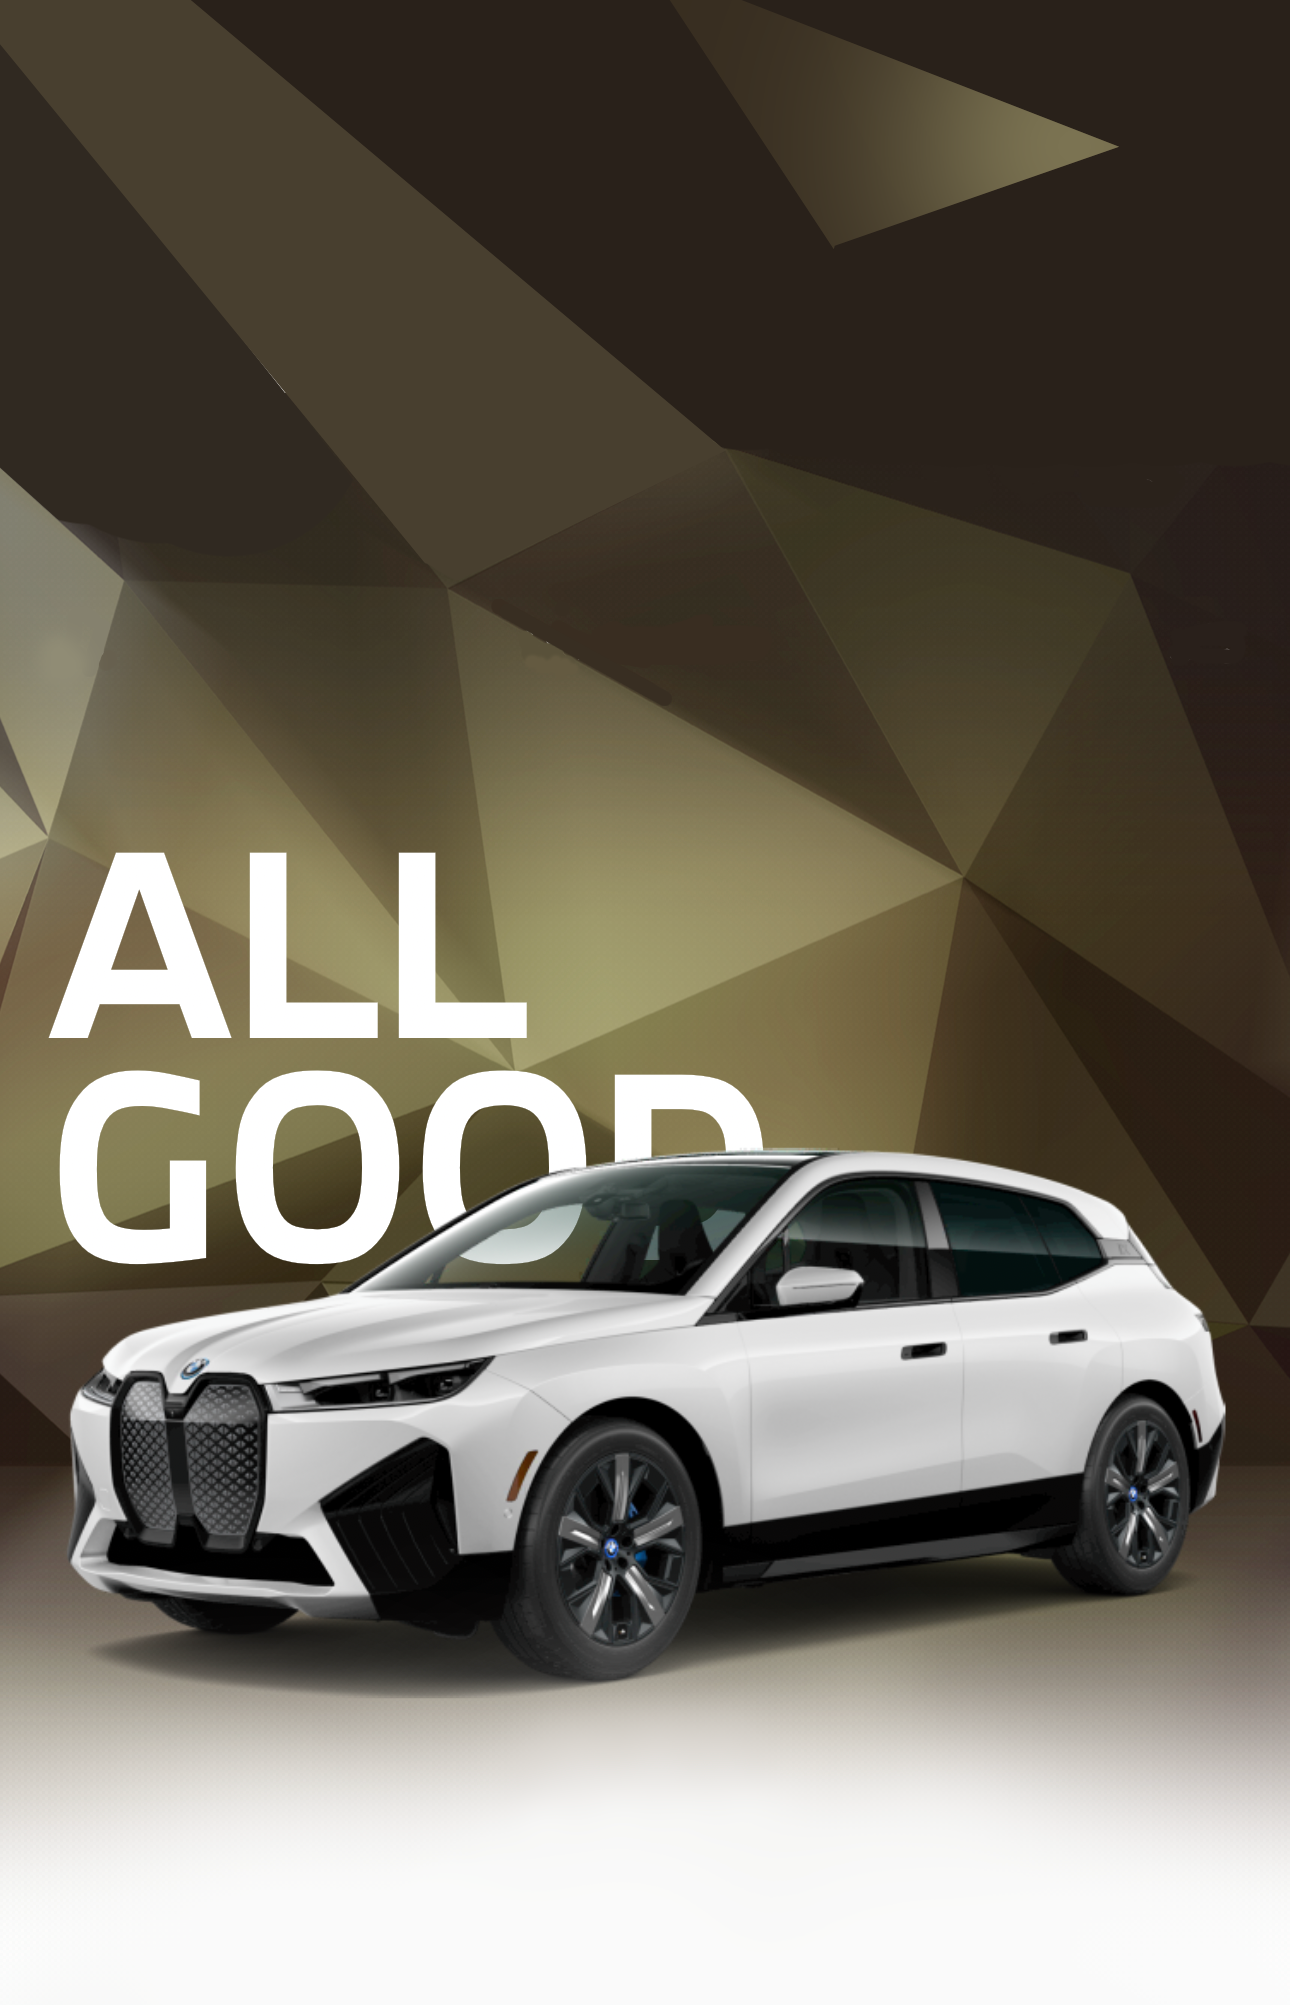
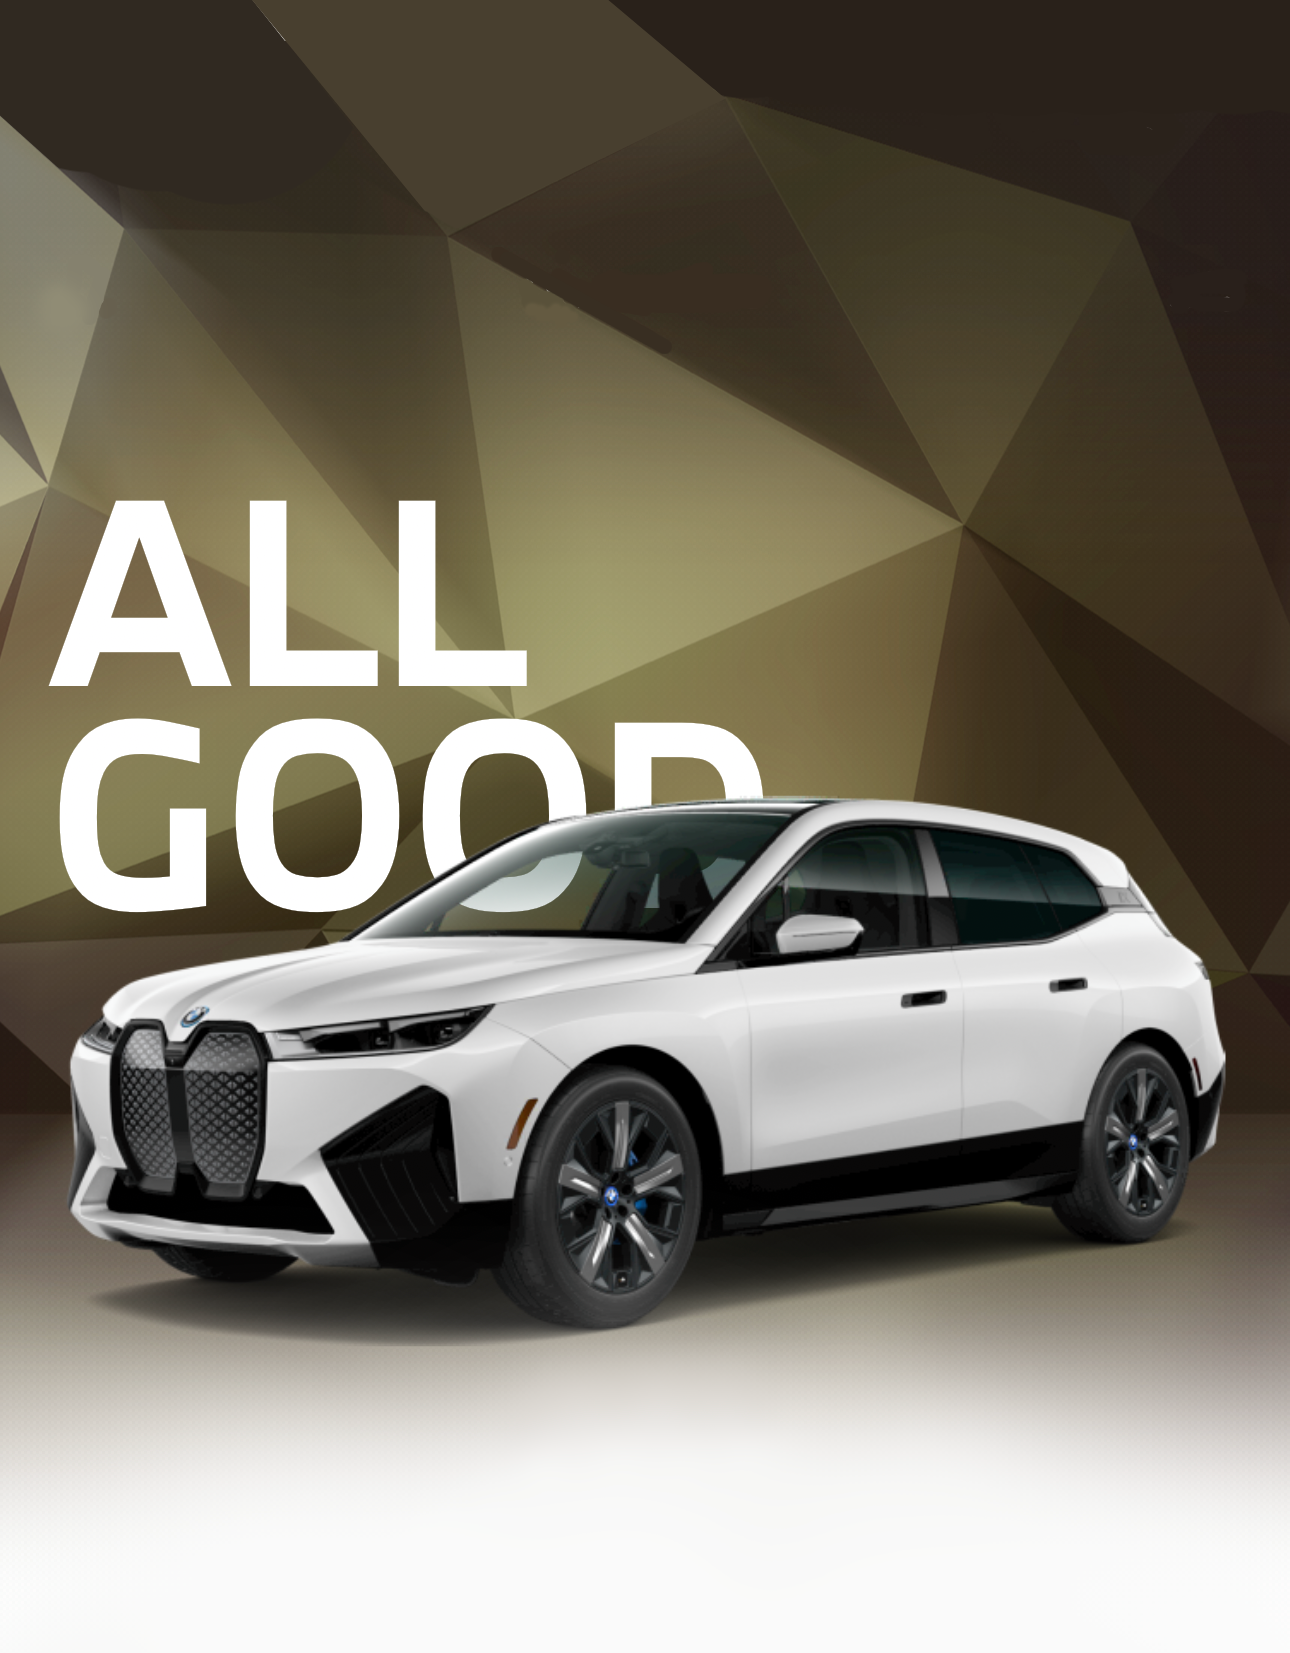
Edit Ui with Card

diff --git a/lib/presentation/screens/home_screen.dart b/lib/presentation/screens/home_screen.dart
@@ -13,6 +13,8 @@ class _HomeScreenState extends State<HomeScreen> {
   final ScrollController _scrollController = ScrollController();
   double _opacity = 0.0;
   double _sliderValue = 60.0;
+  int _selectedIndex = 0;
+
   @override
   void initState() {
     super.initState();
@@ -21,6 +23,13 @@ class _HomeScreenState extends State<HomeScreen> {
       setState(() {
         _opacity = (scrollOffset / 2).clamp(0.0, 0.5);
       });
+    });
+  }
+
+  // Function to handle BottomNavigationBar taps
+  void _onItemTapped(int index) {
+    setState(() {
+      _selectedIndex = index;
     });
   }
 
@@ -33,11 +42,11 @@ class _HomeScreenState extends State<HomeScreen> {
   @override
   Widget build(BuildContext context) {
     return Scaffold(
+      backgroundColor:const Color(0xFF302921),
       body: Stack(
         children: [
           Stack(
             children: [
-
               SingleChildScrollView(
                 controller: _scrollController,
                 child: Column(
@@ -46,9 +55,8 @@ class _HomeScreenState extends State<HomeScreen> {
                       children: [
                         Image.asset('assets/images/background.png'),
                         Transform.translate(
-                          offset: const Offset(0, 620),
+                          offset: const Offset(0, 500),
                           child: SizedBox(
-                            //  color: Colors.yellow,
                             width: double.infinity,
                             child: Center(
                               child: Column(
@@ -68,9 +76,8 @@ class _HomeScreenState extends State<HomeScreen> {
                                   ),
                                   Text(
                                     'Updated from vehicle 9/22/2024 9:43 PM',
-                                    style:
-                                    TextStyle(color: Colors.grey.shade500),
-                                  )
+                                    style: TextStyle(color: Colors.grey.shade500),
+                                  ),
                                 ],
                               ),
                             ),
@@ -78,35 +85,35 @@ class _HomeScreenState extends State<HomeScreen> {
                         ),
                       ],
                     ),
-                    Padding(
-                      padding: const EdgeInsets.symmetric(horizontal: 16.0),
-                      child: Transform.translate(
-                        offset: const Offset(0, 30),
-                        child: Container(
-                          decoration: BoxDecoration(
-                              color: const Color(0xFFE8E8E8),
-                              borderRadius: BorderRadius.circular(8.0)),
-                          height: 80,
+                    Container(
+
+                      decoration: BoxDecoration(
+                        color: const Color(0xFFFAFAF9),
+                        //borderRadius: BorderRadius.circular(8.0),
+                      ),
+                      height: 120,
+                      child: Padding(
+                        padding: const EdgeInsets.symmetric(horizontal: 8.0,vertical: 8),
+                        child: Card(
                           child: Column(
                             mainAxisAlignment: MainAxisAlignment.center,
                             children: [
                               SliderTheme(
                                 data: SliderTheme.of(context).copyWith(
                                   thumbShape: SliderComponentShape.noThumb,
-                                  activeTrackColor: Colors
-                                      .white, // Customize active track color
+                                  activeTrackColor: Colors.white,
                                   inactiveTrackColor: Colors.grey,
-                                  // Customize inactive track color
                                 ),
                                 child: Slider(
-                                    value: _sliderValue,
-                                    min: 0.0,
-                                    max: 100,
-                                    onChanged: (newValue) {
-                                      setState(() {
-                                        _sliderValue = newValue;
-                                      });
-                                    }),
+                                  value: _sliderValue,
+                                  min: 0.0,
+                                  max: 100,
+                                  onChanged: (newValue) {
+                                    setState(() {
+                                      _sliderValue = newValue;
+                                    });
+                                  },
+                                ),
                               ),
                               Expanded(
                                 child: Row(
@@ -114,74 +121,170 @@ class _HomeScreenState extends State<HomeScreen> {
                                   children: [
                                     Row(
                                       children: [
-                                        Image.asset('assets/images/car_battery_icon.png',height: 30,width: 30,),
-                                        const SizedBox(width: 16,),
-                                        const Text('State of charge',style: TextStyle(fontSize: 12,fontWeight: FontWeight.bold),)
+                                        Image.asset(
+                                          'assets/images/car_battery_icon.png',
+                                          height: 30,
+                                          width: 30,
+                                        ),
+                                        const SizedBox(width: 16),
+                                        const Text(
+                                          'State of charge',
+                                          style: TextStyle(
+                                            fontSize: 12,
+                                            fontWeight: FontWeight.bold,
+                                          ),
+                                        ),
                                       ],
                                     ),
                                     const Row(
                                       children: [
-                                        Text('64',style: TextStyle(fontSize: 24,fontWeight: FontWeight.bold),),
-                                        Text('% /',style: TextStyle(fontSize: 16),),
-                                        Text('229',style: TextStyle(fontSize: 24,fontWeight: FontWeight.bold),),
-                                        Text('mi',style: TextStyle(fontSize: 16),),
+                                        Text(
+                                          '64',
+                                          style: TextStyle(
+                                            fontSize: 24,
+                                            fontWeight: FontWeight.bold,
+                                          ),
+                                        ),
+                                        Text('% /', style: TextStyle(fontSize: 16)),
+                                        Text(
+                                          '229',
+                                          style: TextStyle(
+                                            fontSize: 24,
+                                            fontWeight: FontWeight.bold,
+                                          ),
+                                        ),
+                                        Text('mi', style: TextStyle(fontSize: 16)),
                                       ],
                                     ),
                                   ],
                                 ),
-                              )
+                              ),
                             ],
                           ),
-
                         ),
                       ),
                     ),
-                    const SizedBox(
-                      height: 20,
-                    ),
-                    Padding(
-                      padding: const EdgeInsets.symmetric(horizontal: 16.0),
-                      child: Transform.translate(
-                        offset: const Offset(0, 50),
-                        child:  Container(
-                          decoration: BoxDecoration(
-                              color: const Color(0xFFE8E8E8),
-                              borderRadius: BorderRadius.circular(8.0)),
-                          height: 200,),
+                    Container(
+
+                      decoration: BoxDecoration(
+                        color: const Color(0xFFFAFAF9),
+                        //borderRadius: BorderRadius.circular(8.0),
+                      ),
+                      height: 120,
+                      width: double.infinity,
+                      child: Padding(
+                        padding: const EdgeInsets.symmetric(horizontal: 8.0,vertical: 8),
+                        child: Card(
+                          child: Column(
+                            mainAxisAlignment: MainAxisAlignment.center,
+                            children: [
+
+
+                            ],
+                          ),
+                        ),
                       ),
                     ),
-                    const SizedBox(
-                      height: 20,
-                    ),
-                    Padding(
-                      padding: const EdgeInsets.symmetric(horizontal: 16.0),
-                      child: Transform.translate(
-                        offset: const Offset(0, 50),
-                        child: Container(
-                          decoration: BoxDecoration(
-                              color: const Color(0xFFE8E8E8),
-                              borderRadius: BorderRadius.circular(8.0)),
-                          height: 200,),
+                    Container(
+
+                      decoration: BoxDecoration(
+                        color: const Color(0xFFFAFAF9),
+                        //borderRadius: BorderRadius.circular(8.0),
                       ),
-                    )
+                      height: 120,
+                      width: double.infinity,
+                      child: Padding(
+                        padding: const EdgeInsets.symmetric(horizontal: 8.0,vertical: 8),
+                        child: Card(
+                          child: Column(
+                            mainAxisAlignment: MainAxisAlignment.center,
+                            children: [
+
+
+                            ],
+                          ),
+                        ),
+                      ),
+                    ),
+                    Container(
+
+                      decoration: BoxDecoration(
+                        color: const Color(0xFFFAFAF9),
+                        //borderRadius: BorderRadius.circular(8.0),
+                      ),
+                      height: 120,
+                      width: double.infinity,
+                      child: Padding(
+                        padding: const EdgeInsets.symmetric(horizontal: 8.0,vertical: 8),
+                        child: Card(
+                          child: Column(
+                            mainAxisAlignment: MainAxisAlignment.center,
+                            children: [
+
+
+                            ],
+                          ),
+                        ),
+                      ),
+                    ),
+                    Container(
+
+                      decoration: BoxDecoration(
+                        color: const Color(0xFFFAFAF9),
+                        //borderRadius: BorderRadius.circular(8.0),
+                      ),
+                      height: 120,
+                      width: double.infinity,
+                      child: Padding(
+                        padding: const EdgeInsets.symmetric(horizontal: 8.0,vertical: 8),
+                        child: Card(
+                          child: Column(
+                            mainAxisAlignment: MainAxisAlignment.center,
+                            children: [
+
+
+                            ],
+                          ),
+                        ),
+                      ),
+                    ),
+                    Container(
+
+                      decoration: BoxDecoration(
+                        color: const Color(0xFFFAFAF9),
+                        //borderRadius: BorderRadius.circular(8.0),
+                      ),
+                      height: 120,
+                      width: double.infinity,
+                      child: Padding(
+                        padding: const EdgeInsets.symmetric(horizontal: 8.0,vertical: 8),
+                        child: Card(
+                          child: Column(
+                            mainAxisAlignment: MainAxisAlignment.center,
+                            children: [
+
+
+                            ],
+                          ),
+                        ),
+                      ),
+                    ),
                   ],
                 ),
-              ),],
+              ),
+            ],
           ),
           Positioned(
             top: 0,
             left: 0,
             right: 0,
             child: ClipRRect(
-              borderRadius: BorderRadius.circular(
-                  0), // No border radius (if needed, change this)
+              borderRadius: BorderRadius.circular(0),
               child: BackdropFilter(
-                filter:
-                ImageFilter.blur(sigmaX: 10.0, sigmaY: 10.0), // Blur effect
+                filter: ImageFilter.blur(sigmaX: 10.0, sigmaY: 10.0),
                 child: Container(
                   height: 100,
-                  color: Colors.black.withOpacity(
-                      _opacity), // Semi-transparent for glossy effect
+                  color: Colors.black.withOpacity(_opacity),
                   child: Center(
                     child: Column(
                       mainAxisAlignment: MainAxisAlignment.end,
@@ -194,19 +297,16 @@ class _HomeScreenState extends State<HomeScreen> {
                               height: 30,
                               width: 60,
                               color: Colors.white,
-                              alignment: const Alignment(-2.5, 0),
                             ),
                             const Text(
                               'iX xDrive50',
-                              style:
-                              TextStyle(color: Colors.white, fontSize: 20),
+                              style: TextStyle(color: Colors.white, fontSize: 20),
                             ),
                             Image.asset(
                               'assets/images/img_2.png',
                               width: 60,
                               height: 30,
                               color: Colors.white,
-                              alignment: const Alignment(-4, 0),
                             ),
                           ],
                         ),
@@ -218,6 +318,34 @@ class _HomeScreenState extends State<HomeScreen> {
             ),
           ),
         ],
+      ),
+      bottomNavigationBar: BottomNavigationBar(
+        items: const <BottomNavigationBarItem>[
+          BottomNavigationBarItem(
+            icon: Icon(Icons.home),
+            label: 'Home',
+          ),
+          BottomNavigationBarItem(
+            icon: Icon(Icons.battery_charging_full),
+            label: 'Battery',
+          ),
+          BottomNavigationBarItem(
+            icon: Icon(Icons.car_repair),
+            label: 'Car',
+          ),
+          BottomNavigationBarItem(
+            icon: Icon(Icons.map),
+            label: 'Map',
+          ),
+          BottomNavigationBarItem(
+            icon: Icon(Icons.settings),
+            label: 'Settings',
+          ),
+        ],
+        currentIndex: _selectedIndex,
+        selectedItemColor: Colors.blue,
+        unselectedItemColor: Colors.grey,
+        onTap: _onItemTapped,
       ),
     );
   }
